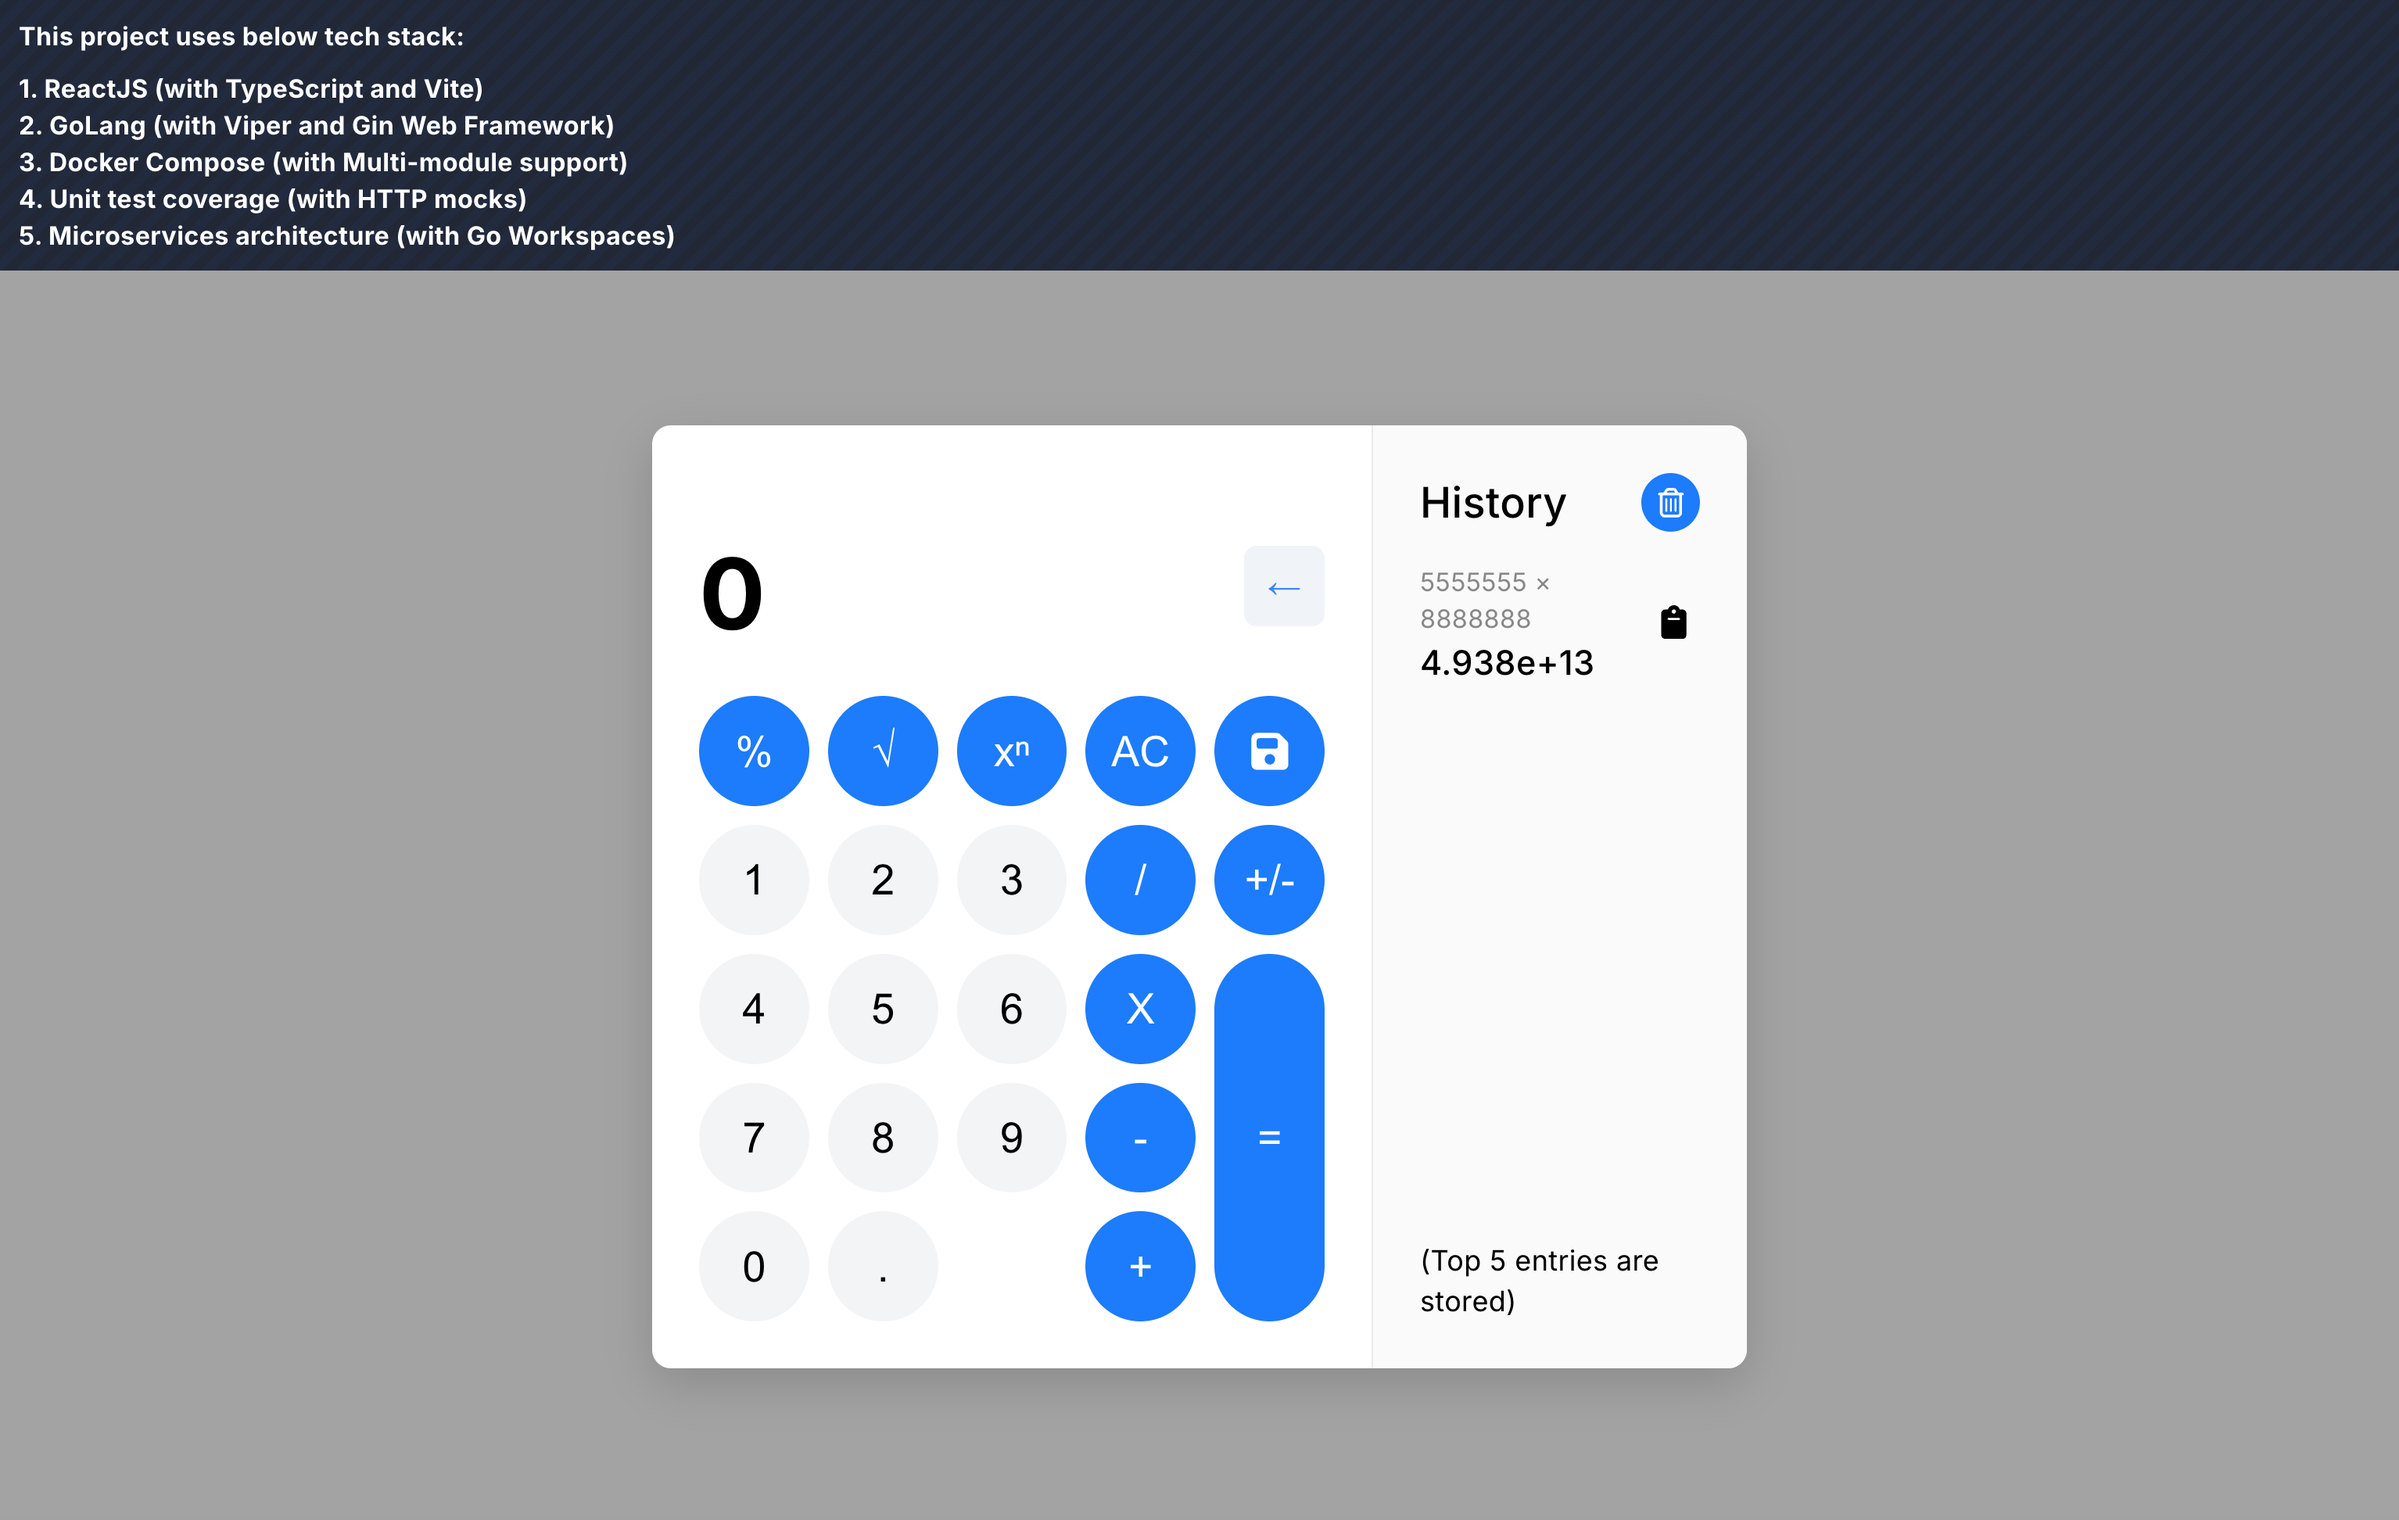
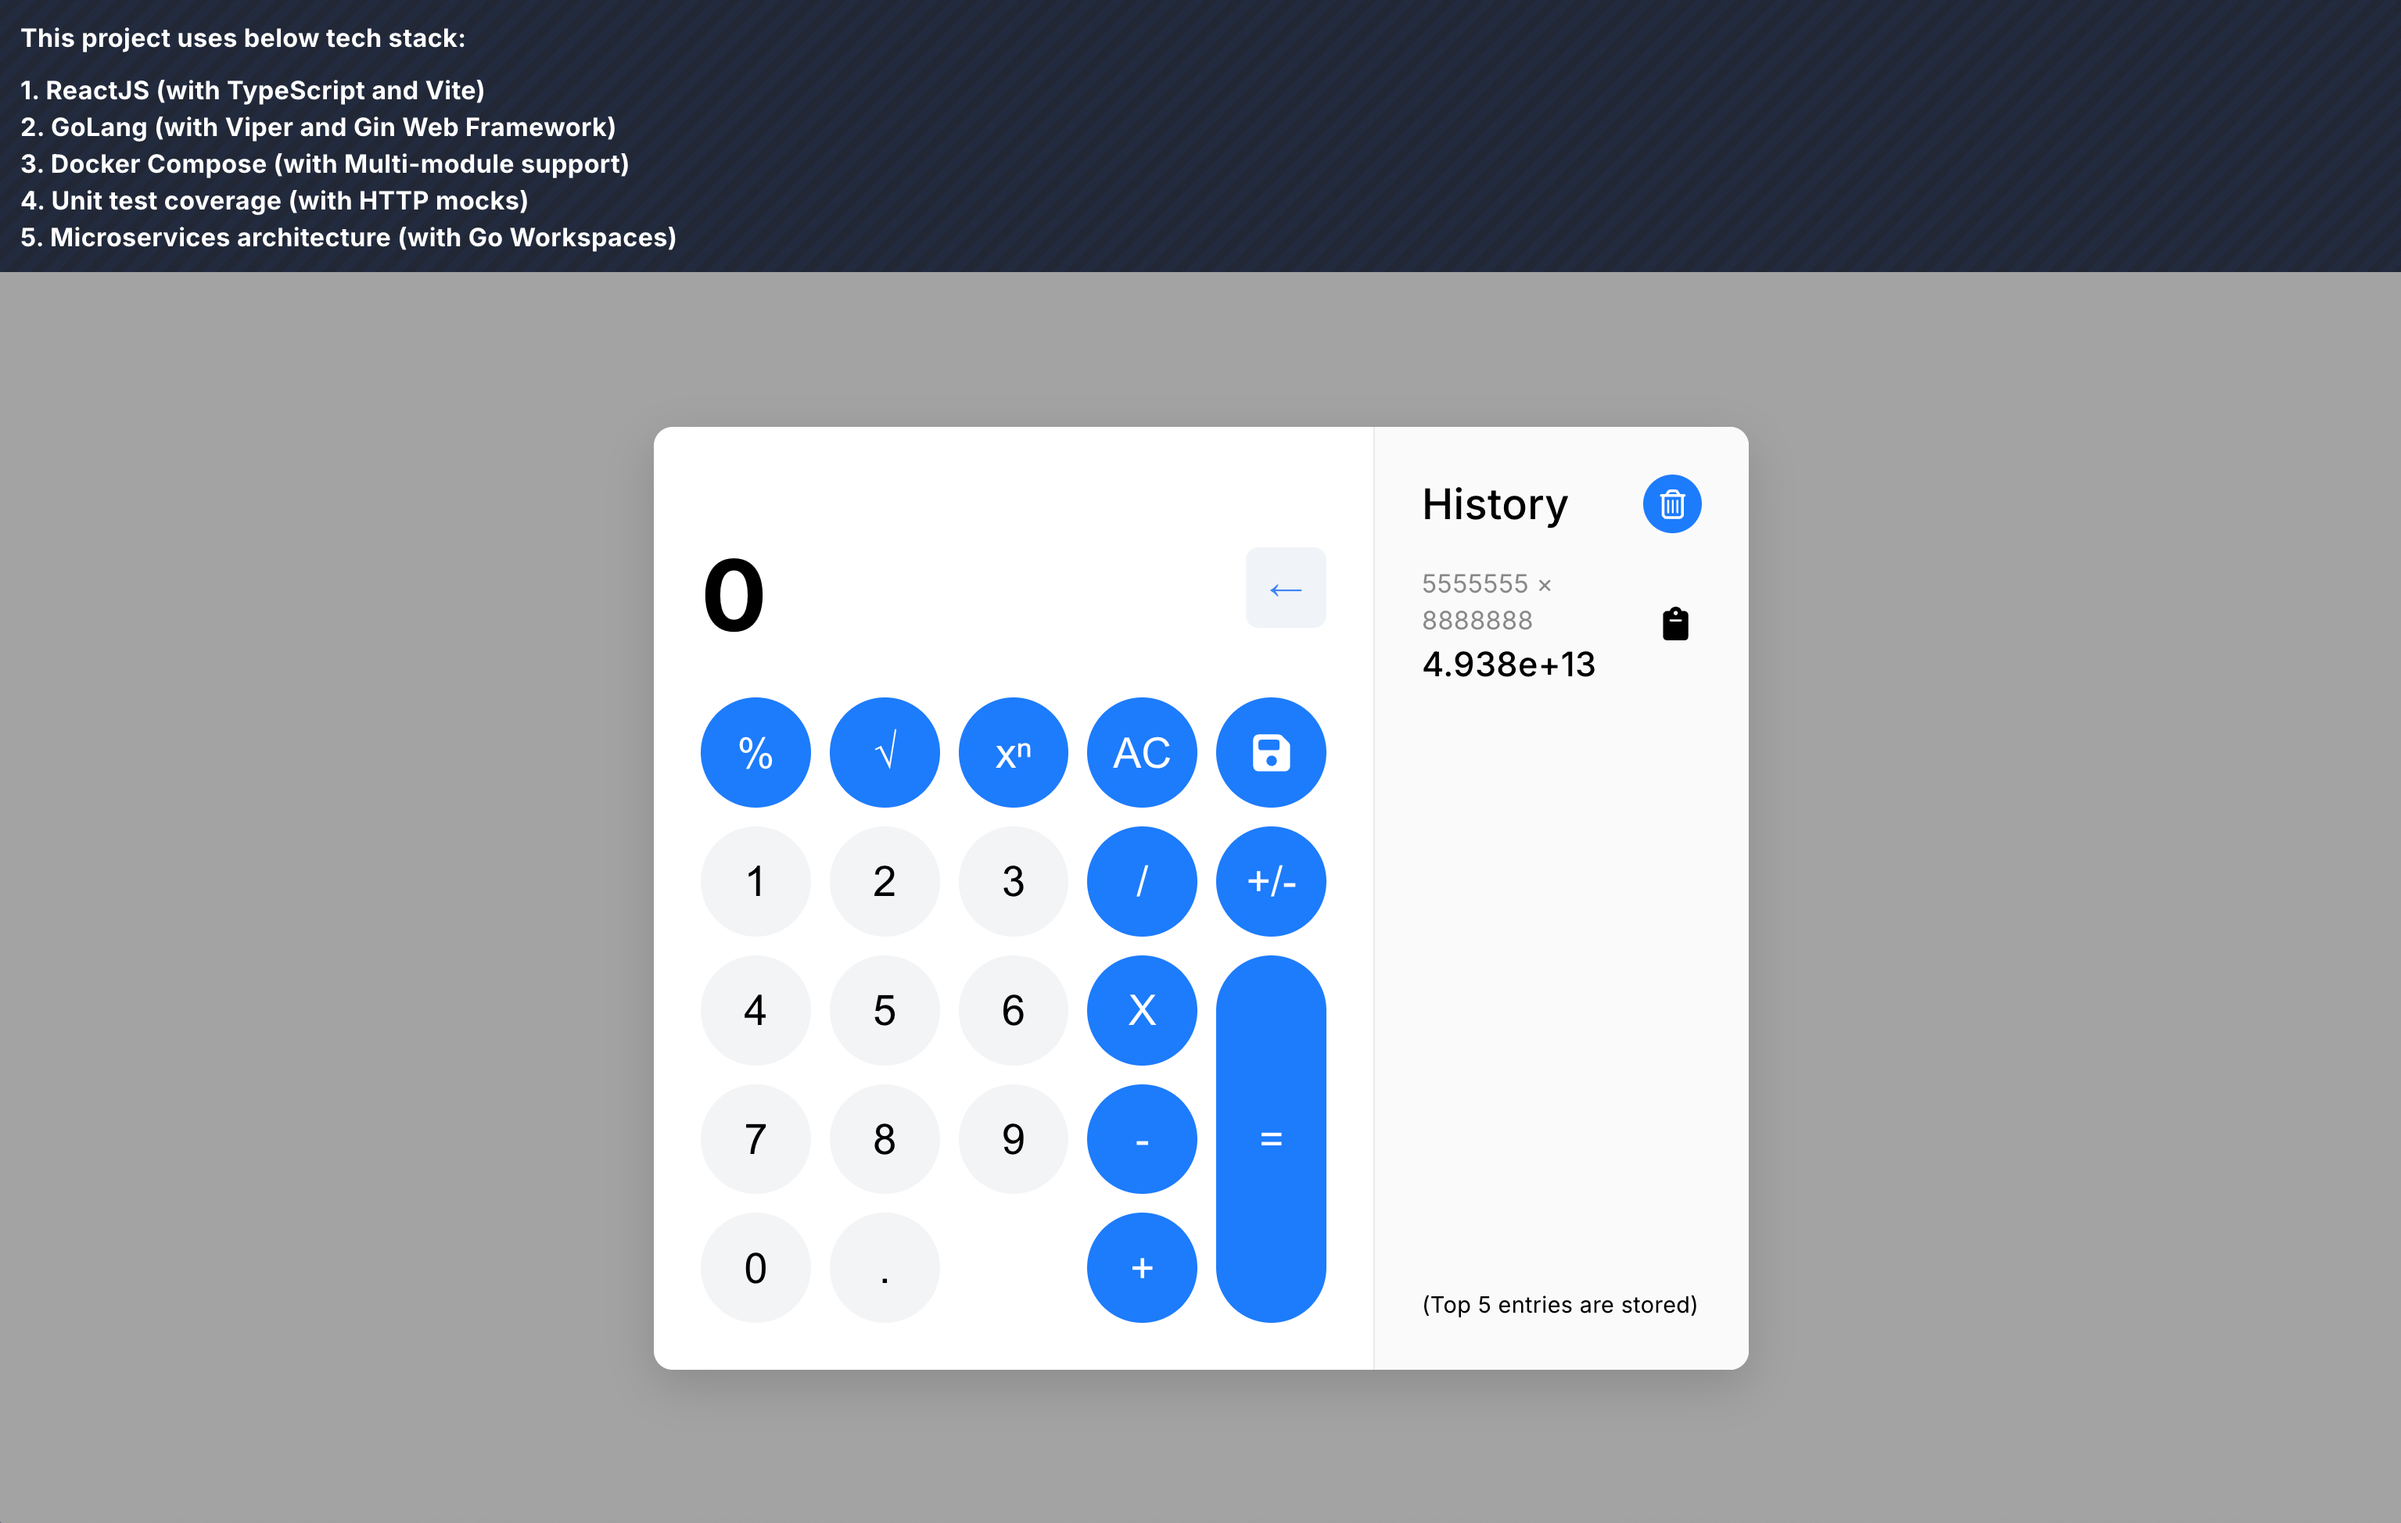
Further fixes

diff --git a/calculator-frontend/src/App.css b/calculator-frontend/src/App.css
@@ -160,3 +160,7 @@ button:hover {
 #history-clear {
   margin-left: 30px;
 }
+
+.history-footer-text {
+  font-size: 0.8rem;
+}
